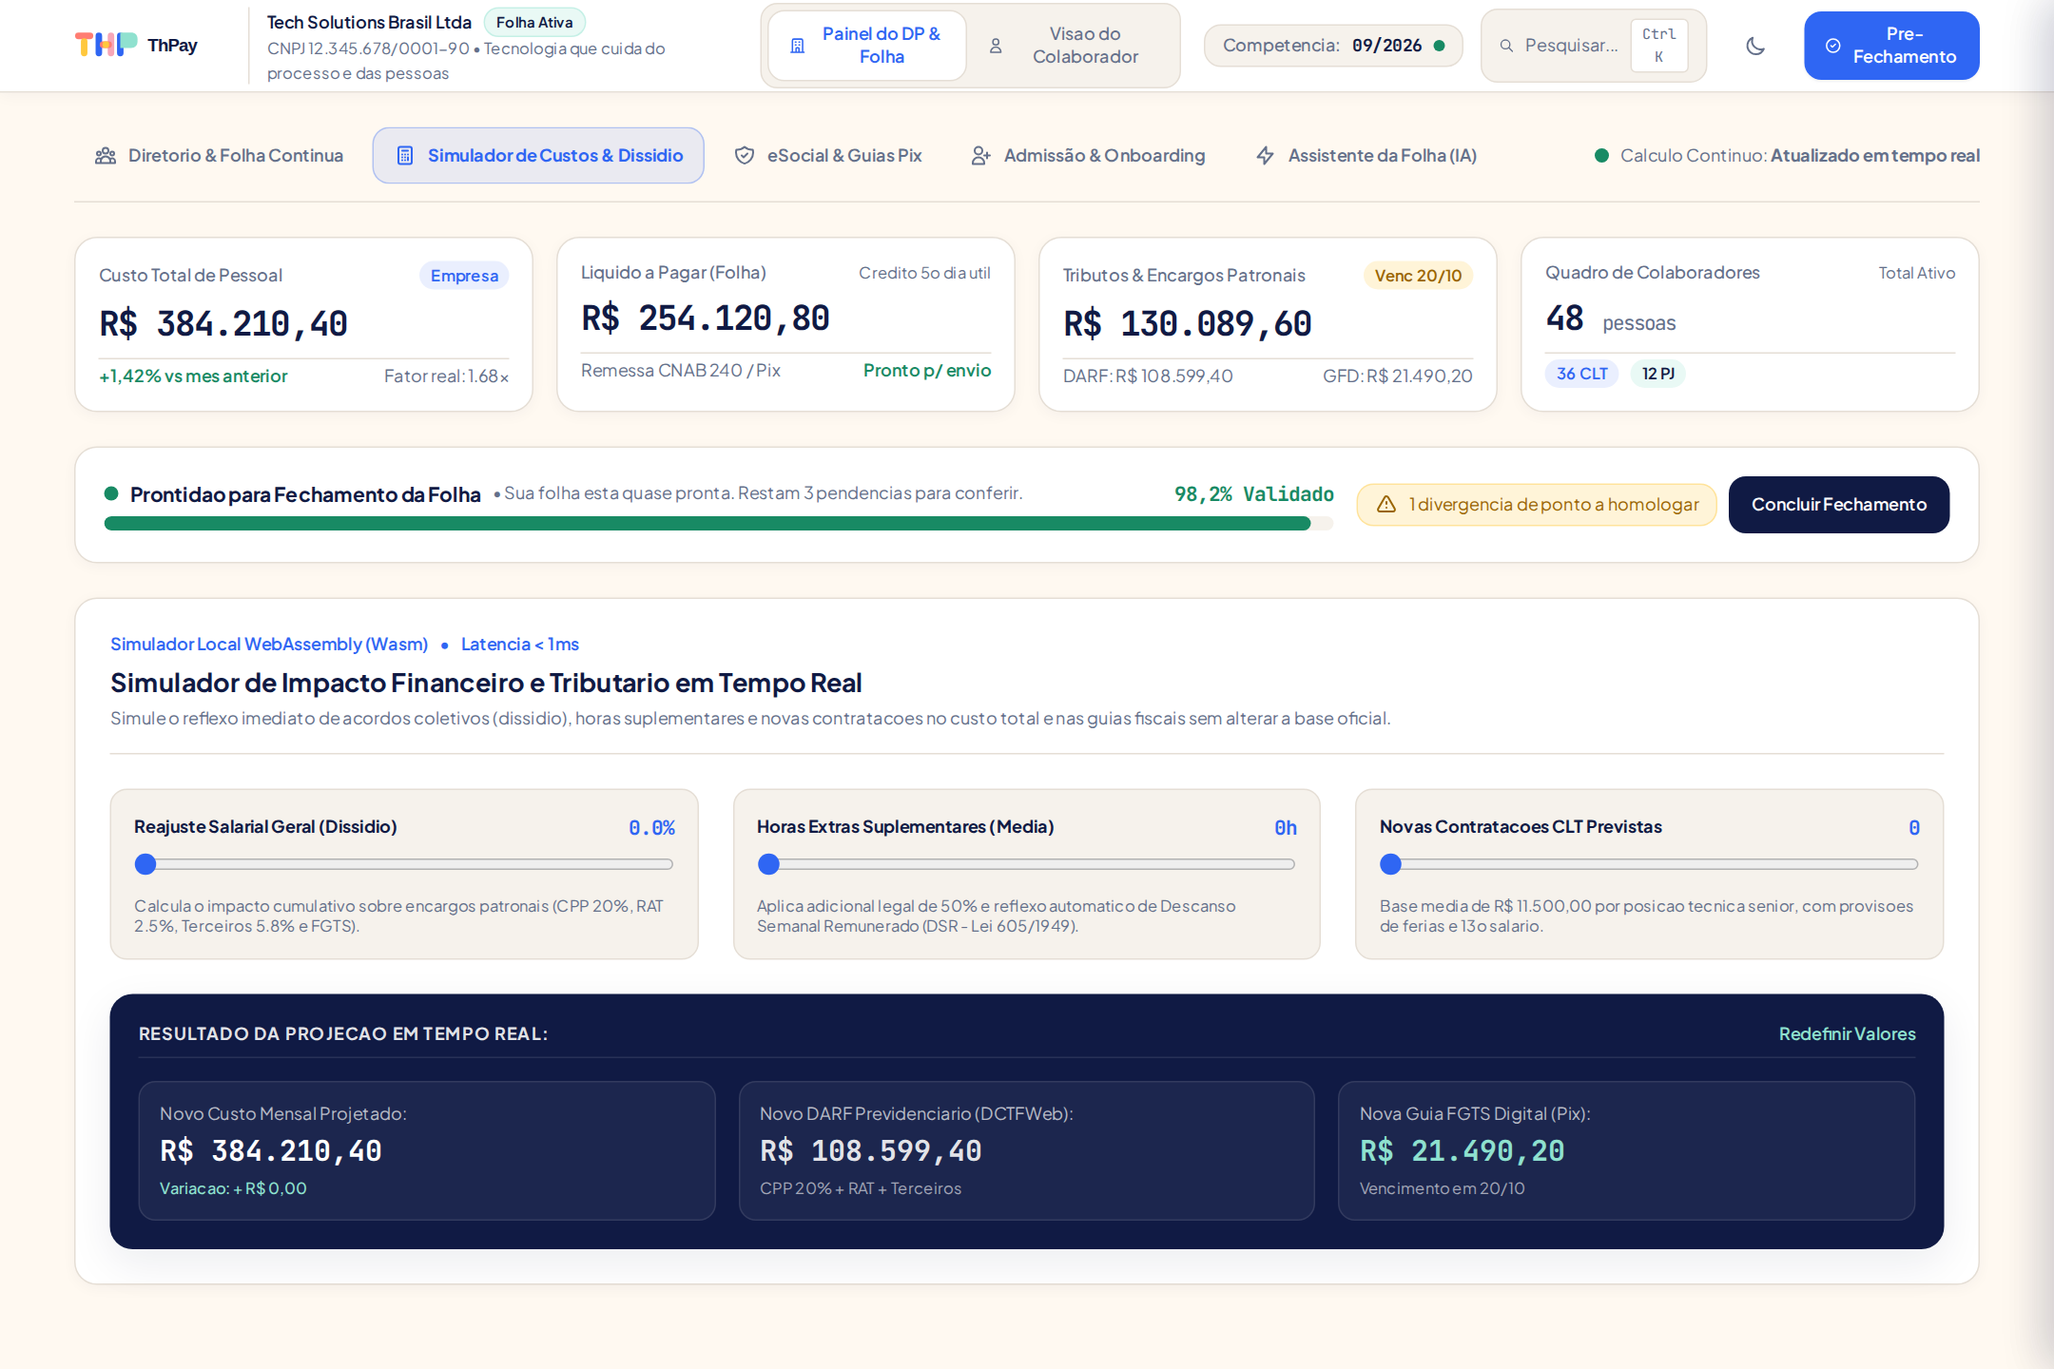
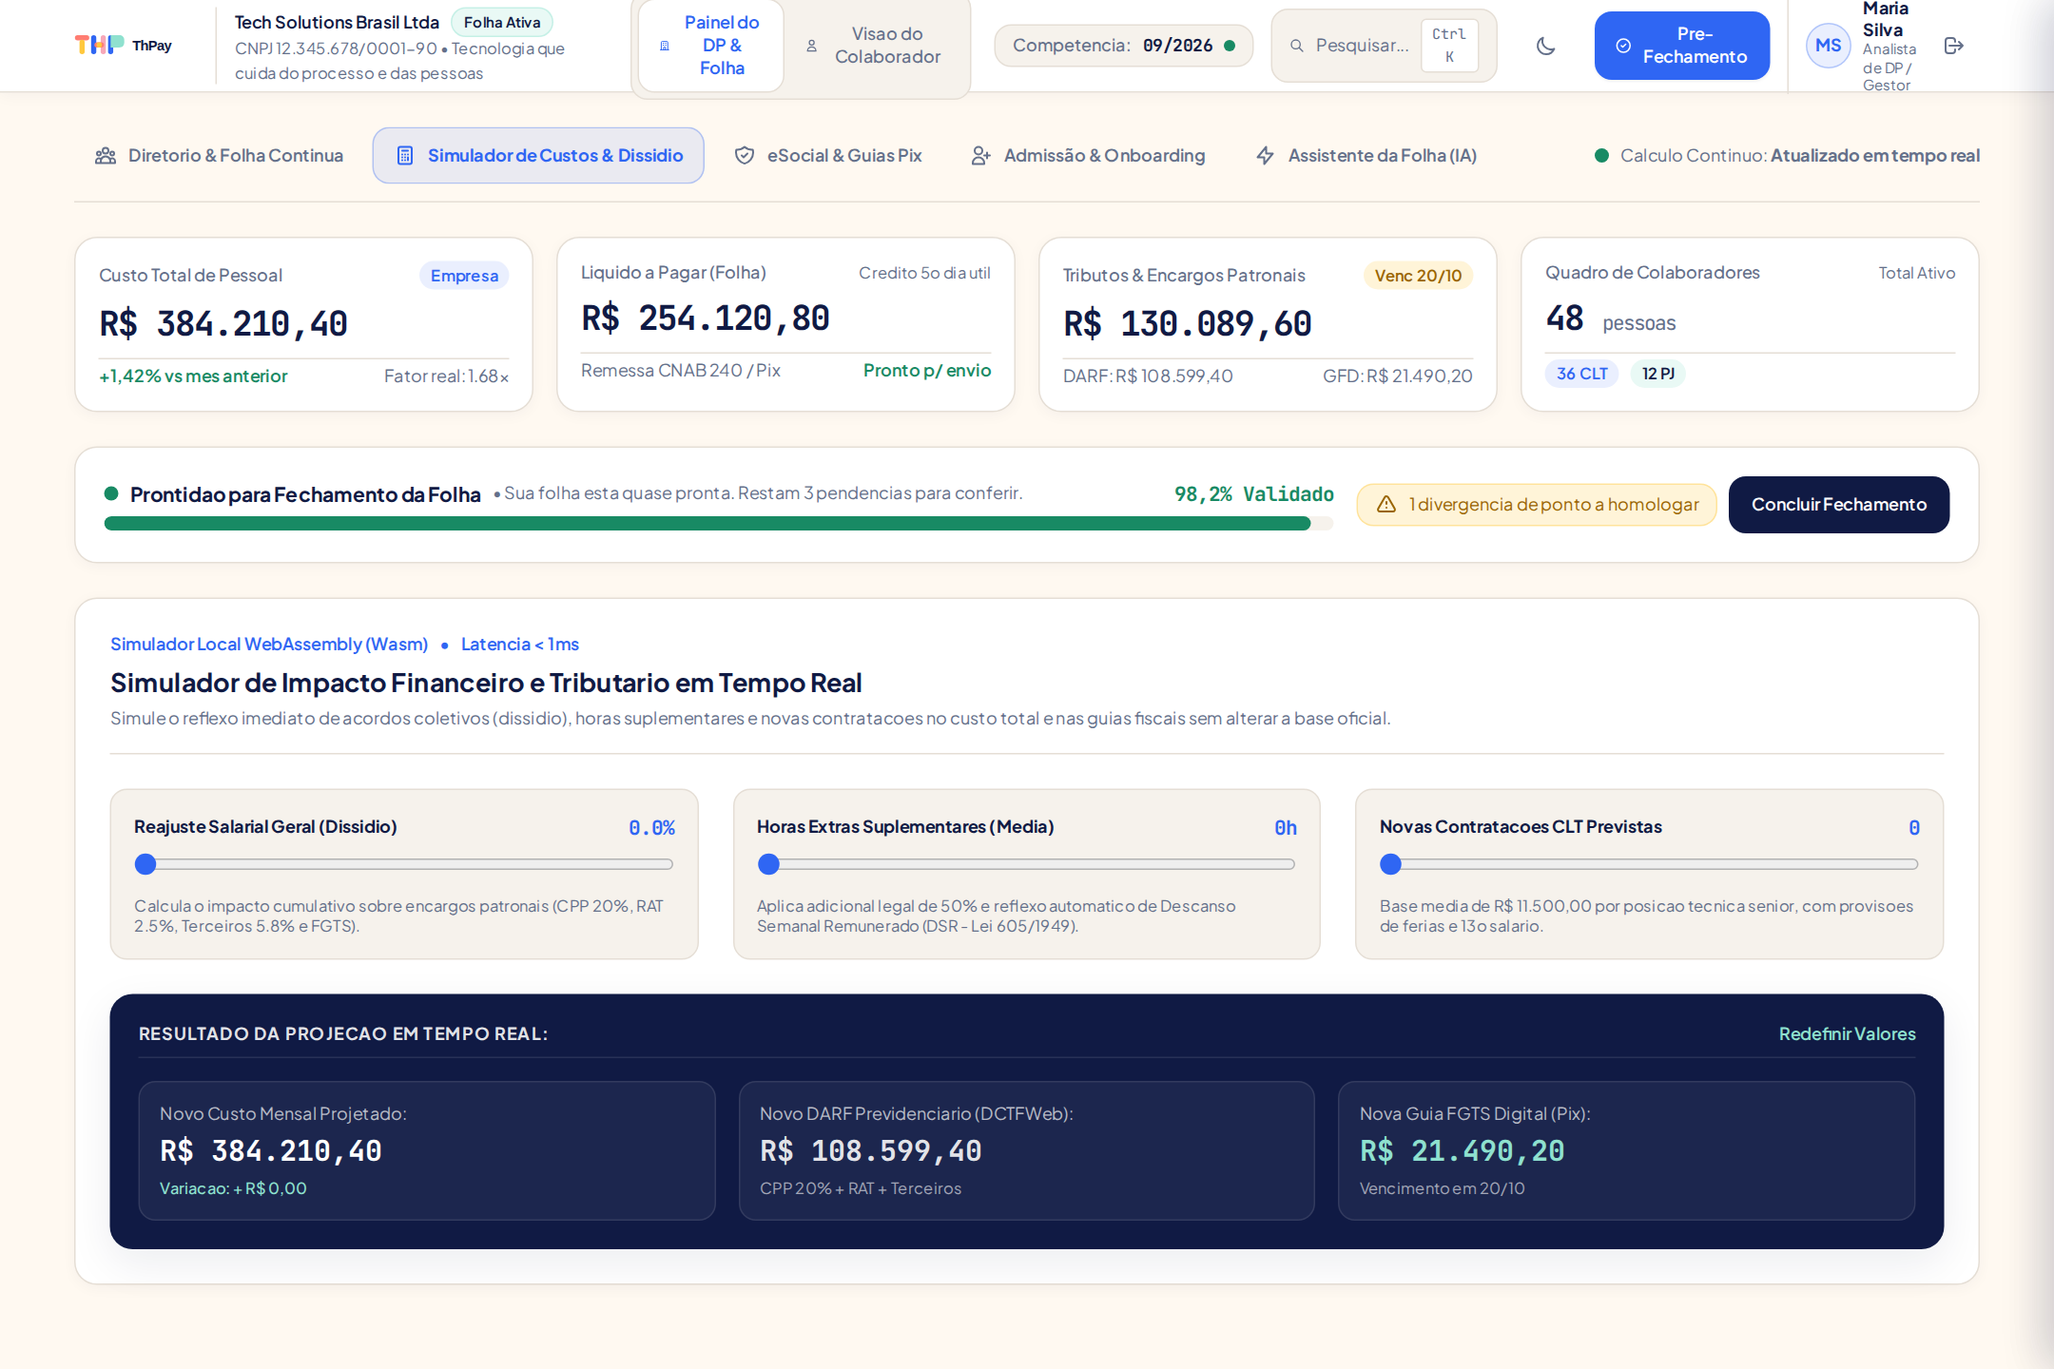
feat(auth): implementar tela de login corporativo, fluxo rbac e documentar dashboard inicial do analista com prints

diff --git a/ui/index.html b/ui/index.html
@@ -193,6 +193,18 @@
             <span class="hidden sm:inline">Pre-Fechamento</span>
           </button>
 
+          <!-- Authenticated User Profile & Logout Widget -->
+          <div id="user-header-widget" class="flex items-center gap-2 pl-2 sm:pl-3 border-l border-[var(--thp-border)]">
+            <div class="w-8 h-8 rounded-full bg-[#2F66F3]/10 text-[#2F66F3] font-bold text-xs flex items-center justify-center shrink-0 border border-[#2F66F3]/30" id="user-avatar-initials">MS</div>
+            <div class="hidden xl:block text-left">
+              <div class="text-xs font-bold text-[var(--thp-text)] leading-tight" id="user-display-name">Maria Silva</div>
+              <div class="text-[10px] text-[var(--thp-text-muted)] leading-tight" id="user-role-label">Analista de DP / Gestor</div>
+            </div>
+            <button onclick="logoutUser()" class="p-1.5 rounded-thp-sm text-[var(--thp-text-muted)] hover:text-[#C83D4D] hover:bg-[var(--thp-surface-soft)] transition-colors min-h-[36px] min-w-[36px] flex items-center justify-center" title="Sair do sistema (Logout)" aria-label="Sair">
+              <svg class="w-4 h-4" fill="none" stroke="currentColor" viewBox="0 0 24 24"><path stroke-linecap="round" stroke-linejoin="round" stroke-width="2" d="M17 16l4-4m0 0l-4-4m4 4H7m6 4v1a3 3 0 01-3 3H6a3 3 0 01-3-3V7a3 3 0 013-3h4a3 3 0 013 3v1"/></svg>
+            </button>
+          </div>
+
           <!-- Hidden button for script test compatibility -->
           <button onclick="switchView('employee-portal')" id="header-employee-btn" class="hidden"></button>
         </div>
@@ -259,6 +271,103 @@
 
   <!-- MAIN APPLICATION CONTAINER -->
   <div class="max-w-[1400px] mx-auto px-4 sm:px-6 lg:px-8 py-6 w-full flex-1 flex flex-col gap-6">
+
+    <!-- VIEW 0: LOGIN & AUTHENTICATION (RBAC GATEWAY) -->
+    <div id="view-login" class="max-w-xl mx-auto w-full py-6 space-y-6 hidden">
+      
+      <!-- Brand Connection Card -->
+      <div class="bg-[var(--thp-surface)] rounded-thp border border-[var(--thp-border)] shadow-thp-card p-6 sm:p-8 space-y-6 relative overflow-hidden">
+        
+        <!-- Header with Official Logo -->
+        <div class="flex items-center justify-between pb-5 border-b border-[var(--thp-border)]">
+          <div class="space-y-1">
+            <div class="flex items-center gap-2">
+              <img src="./brand/thpay-primary-dark.svg" alt="ThPay" class="h-8 w-auto dark:hidden" />
+              <img src="./brand/thpay-primary-light.svg" alt="ThPay" class="h-8 w-auto hidden dark:block" />
+            </div>
+            <p class="text-xs text-[var(--thp-text-muted)]">Gestão Contínua de Folha & Autoatendimento de Benefícios</p>
+          </div>
+          <span class="px-2.5 py-1 rounded-full text-[11px] font-semibold bg-[#188A64]/10 text-[#188A64] border border-[#188A64]/30">Acesso Seguro</span>
+        </div>
+
+        <!-- Title and context explanation -->
+        <div class="space-y-1.5">
+          <h2 class="text-xl font-bold text-[var(--thp-text)] tracking-tight">Autenticação Corporativa</h2>
+          <p class="text-xs text-[var(--thp-text-muted)] leading-relaxed">
+            Faça login com suas credenciais corporativas. O redirecionamento e as permissões de acesso são definidos automaticamente pelo perfil funcional associado à sua conta (RBAC).
+          </p>
+        </div>
+
+        <!-- Login Form -->
+        <form id="form-login" onsubmit="handleLoginSubmit(event)" class="space-y-4">
+          <div class="space-y-1.5">
+            <label for="login-email" class="block text-xs font-semibold text-[var(--thp-text)]">E-mail Corporativo</label>
+            <div class="relative">
+              <svg class="w-4 h-4 text-[var(--thp-text-muted)] absolute left-3 top-1/2 -translate-y-1/2 pointer-events-none" fill="none" stroke="currentColor" viewBox="0 0 24 24"><path stroke-linecap="round" stroke-linejoin="round" stroke-width="2" d="M16 12a4 4 0 10-8 0 4 4 0 008 0zm0 0v1.5a2.5 2.5 0 005 0V12a9 9 0 10-9 9m4.5-1.206a8.959 8.959 0 01-4.5 1.206"/></svg>
+              <input type="email" id="login-email" required value="analista.dp@techsolutions.com.br" class="w-full pl-9 pr-3 py-2.5 text-xs bg-[var(--thp-surface-soft)] border border-[var(--thp-border)] rounded-thp-sm text-[var(--thp-text)] placeholder-[var(--thp-text-muted)] focus:outline-none focus:border-[#2F66F3] min-h-[44px]" placeholder="seu.email@empresa.com.br" />
+            </div>
+          </div>
+
+          <div class="space-y-1.5">
+            <div class="flex items-center justify-between">
+              <label for="login-password" class="block text-xs font-semibold text-[var(--thp-text)]">Senha de Acesso</label>
+              <span class="text-[11px] text-[var(--thp-text-muted)]">PBKDF2 / Salted SHA-256</span>
+            </div>
+            <div class="relative">
+              <svg class="w-4 h-4 text-[var(--thp-text-muted)] absolute left-3 top-1/2 -translate-y-1/2 pointer-events-none" fill="none" stroke="currentColor" viewBox="0 0 24 24"><path stroke-linecap="round" stroke-linejoin="round" stroke-width="2" d="M12 15v2m-6 4h12a2 2 0 002-2v-6a2 2 0 00-2-2H6a2 2 0 00-2 2v6a2 2 0 002 2zm10-10V7a4 4 0 00-8 0v4h8z"/></svg>
+              <input type="password" id="login-password" required value="senha123" class="w-full pl-9 pr-3 py-2.5 text-xs bg-[var(--thp-surface-soft)] border border-[var(--thp-border)] rounded-thp-sm text-[var(--thp-text)] placeholder-[var(--thp-text-muted)] focus:outline-none focus:border-[#2F66F3] min-h-[44px]" placeholder="••••••••" />
+            </div>
+          </div>
+
+          <div class="flex items-center justify-between text-xs pt-1">
+            <label class="flex items-center gap-2 cursor-pointer text-[var(--thp-text-muted)]">
+              <input type="checkbox" checked class="w-4 h-4 rounded border-[var(--thp-border)] text-[#2F66F3] focus:ring-0" />
+              <span>Manter sessão ativa neste dispositivo</span>
+            </label>
+            <span class="text-[11px] font-semibold text-[#2F66F3]">Ambiente Homologado</span>
+          </div>
+
+          <button type="submit" id="btn-login-submit" class="w-full flex items-center justify-center gap-2 px-4 py-3 rounded-thp-sm bg-[#2F66F3] hover:opacity-95 text-white font-semibold text-xs transition-opacity shadow-sm min-h-[44px]">
+            <span>Acessar Plataforma</span>
+            <svg class="w-4 h-4" fill="none" stroke="currentColor" viewBox="0 0 24 24"><path stroke-linecap="round" stroke-linejoin="round" stroke-width="2" d="M14 5l7 7m0 0l-7 7m7-7H3"/></svg>
+          </button>
+        </form>
+
+        <!-- Quick Profile Selection for Demonstrations and Reviewers -->
+        <div class="pt-5 border-t border-[var(--thp-border)] space-y-3">
+          <div class="text-[11px] font-bold text-[var(--thp-text-muted)] uppercase tracking-wider">Acesso Rápido por Perfil (Ambiente de Demonstração):</div>
+          
+          <div class="grid grid-cols-1 sm:grid-cols-2 gap-2.5">
+            <button onclick="loginAsProfile('analyst')" class="flex items-start gap-3 p-3 rounded-thp-sm bg-[var(--thp-surface-soft)] border border-[var(--thp-border)] hover:border-[#2F66F3] text-left transition-colors group">
+              <div class="w-8 h-8 rounded-thp-sm bg-[#2F66F3]/10 text-[#2F66F3] flex items-center justify-center shrink-0 group-hover:bg-[#2F66F3] group-hover:text-white transition-colors">
+                <svg class="w-4 h-4" fill="none" stroke="currentColor" viewBox="0 0 24 24"><path stroke-linecap="round" stroke-linejoin="round" stroke-width="2" d="M19 21V5a2 2 0 00-2-2H7a2 2 0 00-2 2v16m14 0h2m-2 0h-5m-9 0H3m2 0h5M9 7h1m-1 4h1m4-4h1m-1 4h1m-5 10v-5a1 1 0 011-1h2a1 1 0 011 1v5m-4 0h4"/></svg>
+              </div>
+              <div class="space-y-0.5">
+                <div class="text-xs font-bold text-[var(--thp-text)] group-hover:text-[#2F66F3] transition-colors">Analista de DP / Gestor</div>
+                <div class="text-[10px] text-[var(--thp-text-muted)]">Maria Silva • Direciona para o Dashboard Geral da Folha</div>
+              </div>
+            </button>
+
+            <button onclick="loginAsProfile('collaborator')" class="flex items-start gap-3 p-3 rounded-thp-sm bg-[var(--thp-surface-soft)] border border-[var(--thp-border)] hover:border-[#188A64] text-left transition-colors group">
+              <div class="w-8 h-8 rounded-thp-sm bg-[#8FE1CF]/20 text-[#101A44] dark:text-[#8FE1CF] flex items-center justify-center shrink-0 group-hover:bg-[#188A64] group-hover:text-white transition-colors">
+                <svg class="w-4 h-4" fill="none" stroke="currentColor" viewBox="0 0 24 24"><path stroke-linecap="round" stroke-linejoin="round" stroke-width="2" d="M16 7a4 4 0 11-8 0 4 4 0 018 0zM12 14a7 7 0 00-7 7h14a7 7 0 00-7-7z"/></svg>
+              </div>
+              <div class="space-y-0.5">
+                <div class="text-xs font-bold text-[var(--thp-text)] group-hover:text-[#188A64] transition-colors">Colaborador CLT</div>
+                <div class="text-[10px] text-[var(--thp-text-muted)]">Ana Souza • Direciona para o Portal Self-Service</div>
+              </div>
+            </button>
+          </div>
+        </div>
+
+        <!-- Security & Compliance Footer -->
+        <div class="flex items-center gap-2 pt-2 text-[11px] text-[var(--thp-text-muted)]">
+          <svg class="w-3.5 h-3.5 text-[#188A64] shrink-0" fill="none" stroke="currentColor" viewBox="0 0 24 24"><path stroke-linecap="round" stroke-linejoin="round" stroke-width="2" d="M9 12l2 2 4-4m5.618-4.016A11.955 11.955 0 0112 2.944a11.955 11.955 0 01-8.618 3.04A12.02 12.02 0 003 9c0 5.591 3.824 10.29 9 11.622 5.176-1.332 9-6.03 9-11.622 0-1.042-.133-2.052-.382-3.016z"/></svg>
+          <span>Conexão criptografada TLS 1.3 • Trilha de auditoria imutável e conformidade LGPD</span>
+        </div>
+
+      </div>
+    </div>
 
     <!-- DESKTOP SUB-NAVIGATION TABS (DP) -->
     <div id="dp-nav-container" class="flex flex-col sm:flex-row sm:items-center justify-between gap-3 border-b border-[var(--thp-border)] pb-3">
@@ -2339,8 +2448,50 @@
       renderTable();
     }
 
+    let currentUserRole = 'DP_GESTOR';
+
+    function loginAsProfile(profileType) {
+      if (profileType === 'analyst') {
+        currentUserRole = 'DP_GESTOR';
+        updateUserWidget('Maria Silva', 'Analista de DP / Gestor', 'MS');
+        switchView('directory');
+        showToast('Autenticado com Sucesso', 'Bem-vinda, Maria Silva. Acesso liberado ao Dashboard Geral da Folha.');
+      } else if (profileType === 'collaborator') {
+        currentUserRole = 'COLABORADOR_SELF_SERVICE';
+        updateUserWidget('Ana Souza', 'Colaborador CLT', 'AS');
+        switchView('employee-portal');
+        showToast('Autenticado com Sucesso', 'Bem-vinda, Ana Souza. Acesso liberado ao Portal do Colaborador.');
+      }
+    }
+
+    function handleLoginSubmit(e) {
+      if (e) e.preventDefault();
+      const emailInput = document.getElementById('login-email');
+      const email = emailInput ? emailInput.value.trim().toLowerCase() : '';
+      if (email.includes('colab') || email.includes('ana')) {
+        loginAsProfile('collaborator');
+      } else {
+        loginAsProfile('analyst');
+      }
+    }
+
+    function updateUserWidget(name, role, initials) {
+      const nameEl = document.getElementById('user-display-name');
+      const roleEl = document.getElementById('user-role-label');
+      const initialsEl = document.getElementById('user-avatar-initials');
+      if (nameEl) nameEl.textContent = name;
+      if (roleEl) roleEl.textContent = role;
+      if (initialsEl) initialsEl.textContent = initials;
+    }
+
+    function logoutUser() {
+      currentUserRole = null;
+      switchView('login');
+      showToast('Sessão Encerrada', 'Você saiu do sistema com segurança.');
+    }
+
     function switchView(viewId) {
-      const views = ['directory', 'simulator', 'esocial', 'admissions', 'analyst', 'employee-portal'];
+      const views = ['login', 'directory', 'simulator', 'esocial', 'admissions', 'analyst', 'employee-portal'];
       views.forEach(v => {
         const el = document.getElementById(`view-${v}`);
         if (el) el.classList.add('hidden');
@@ -2353,17 +2504,49 @@
       const dpNav = document.getElementById('dp-nav-container');
       const modeBtnDP = document.getElementById('mode-btn-dp');
       const modeBtnColab = document.getElementById('mode-btn-colab');
+      const userWidget = document.getElementById('user-header-widget');
+      const btnFechamento = document.getElementById('btn-fechamento-dp');
+
+      if (viewId === 'login') {
+        if (dpHeader) dpHeader.classList.add('hidden');
+        if (dpNav) dpNav.classList.add('hidden');
+        if (modeBtnDP) modeBtnDP.classList.add('hidden');
+        if (modeBtnColab) modeBtnColab.classList.add('hidden');
+        if (userWidget) userWidget.classList.add('hidden');
+        if (btnFechamento) btnFechamento.classList.add('hidden');
+        return;
+      }
+
+      if (userWidget) userWidget.classList.remove('hidden');
 
       if (viewId === 'employee-portal') {
         if (dpHeader) dpHeader.classList.add('hidden');
         if (dpNav) dpNav.classList.add('hidden');
-        if (modeBtnDP) modeBtnDP.className = "flex items-center gap-2 px-3.5 py-2 rounded-thp-sm text-xs font-medium text-[var(--thp-text-muted)] hover:text-[var(--thp-text)] transition-all min-h-[36px]";
-        if (modeBtnColab) modeBtnColab.className = "flex items-center gap-2 px-3.5 py-2 rounded-thp-sm text-xs font-semibold bg-[var(--thp-surface)] text-[#2F66F3] shadow-xs border border-[var(--thp-border)] transition-all min-h-[36px]";
+        if (btnFechamento) btnFechamento.classList.add('hidden');
+        if (modeBtnDP) {
+          if (currentUserRole === 'COLABORADOR_SELF_SERVICE') {
+            modeBtnDP.classList.add('hidden');
+          } else {
+            modeBtnDP.classList.remove('hidden');
+            modeBtnDP.className = "flex items-center gap-2 px-3.5 py-2 rounded-thp-sm text-xs font-medium text-[var(--thp-text-muted)] hover:text-[var(--thp-text)] transition-all min-h-[36px]";
+          }
+        }
+        if (modeBtnColab) {
+          modeBtnColab.classList.remove('hidden');
+          modeBtnColab.className = "flex items-center gap-2 px-3.5 py-2 rounded-thp-sm text-xs font-semibold bg-[var(--thp-surface)] text-[#2F66F3] shadow-xs border border-[var(--thp-border)] transition-all min-h-[36px]";
+        }
       } else {
         if (dpHeader) dpHeader.classList.remove('hidden');
         if (dpNav) dpNav.classList.remove('hidden');
-        if (modeBtnDP) modeBtnDP.className = "flex items-center gap-2 px-3.5 py-2 rounded-thp-sm text-xs font-semibold bg-[var(--thp-surface)] text-[#2F66F3] shadow-xs border border-[var(--thp-border)] transition-all min-h-[36px]";
-        if (modeBtnColab) modeBtnColab.className = "flex items-center gap-2 px-3.5 py-2 rounded-thp-sm text-xs font-medium text-[var(--thp-text-muted)] hover:text-[var(--thp-text)] transition-all min-h-[36px]";
+        if (btnFechamento) btnFechamento.classList.remove('hidden');
+        if (modeBtnDP) {
+          modeBtnDP.classList.remove('hidden');
+          modeBtnDP.className = "flex items-center gap-2 px-3.5 py-2 rounded-thp-sm text-xs font-semibold bg-[var(--thp-surface)] text-[#2F66F3] shadow-xs border border-[var(--thp-border)] transition-all min-h-[36px]";
+        }
+        if (modeBtnColab) {
+          modeBtnColab.classList.remove('hidden');
+          modeBtnColab.className = "flex items-center gap-2 px-3.5 py-2 rounded-thp-sm text-xs font-medium text-[var(--thp-text-muted)] hover:text-[var(--thp-text)] transition-all min-h-[36px]";
+        }
 
         ['directory', 'simulator', 'esocial', 'admissions', 'analyst'].forEach(navKey => {
           const btn = document.getElementById(`nav-${navKey}`);

diff --git a/capture_screenshots.js b/capture_screenshots.js
@@ -33,10 +33,16 @@ async function capture() {
   await page.goto('file:///root/ThPay/ui/index.html', { waitUntil: 'networkidle0' });
   await new Promise(r => setTimeout(r, 1200)); // Wait for Tailwind CDN and fonts
 
-  // 1. Dashboard de Folha Continua (Visao DP)
-  console.log('Capturando 01_dashboard_folha_continua.png...');
-  await page.evaluate(() => switchView('directory'));
+  // 0. Tela de Autenticacao Corporativa (Login RBAC)
+  console.log('Capturando 00_login_autenticacao.png...');
+  await page.evaluate(() => switchView('login'));
   await new Promise(r => setTimeout(r, 400));
+  await page.screenshot({ path: path.join(OUTPUT_DIR, '00_login_autenticacao.png'), fullPage: false });
+
+  // 1. Dashboard de Folha Continua (Visao DP / Analista - Tela Inicial Pos-Login)
+  console.log('Capturando 01_dashboard_folha_continua.png...');
+  await page.evaluate(() => loginAsProfile('analyst'));
+  await new Promise(r => setTimeout(r, 500));
   await page.screenshot({ path: path.join(OUTPUT_DIR, '01_dashboard_folha_continua.png'), fullPage: false });
 
   // 2. Raio-X do Holerite e Custo Empresa (Drawer)
@@ -111,7 +117,7 @@ async function capture() {
   await page.screenshot({ path: path.join(OUTPUT_DIR, '09_admissoes_lotes_onboarding.png'), fullPage: false });
 
   await browser.close();
-  console.log('Todas as 9 capturas foram concluidas com sucesso em:', OUTPUT_DIR);
+  console.log('Todas as 10 capturas foram concluidas com sucesso em:', OUTPUT_DIR);
 }
 
 capture().catch(err => {
